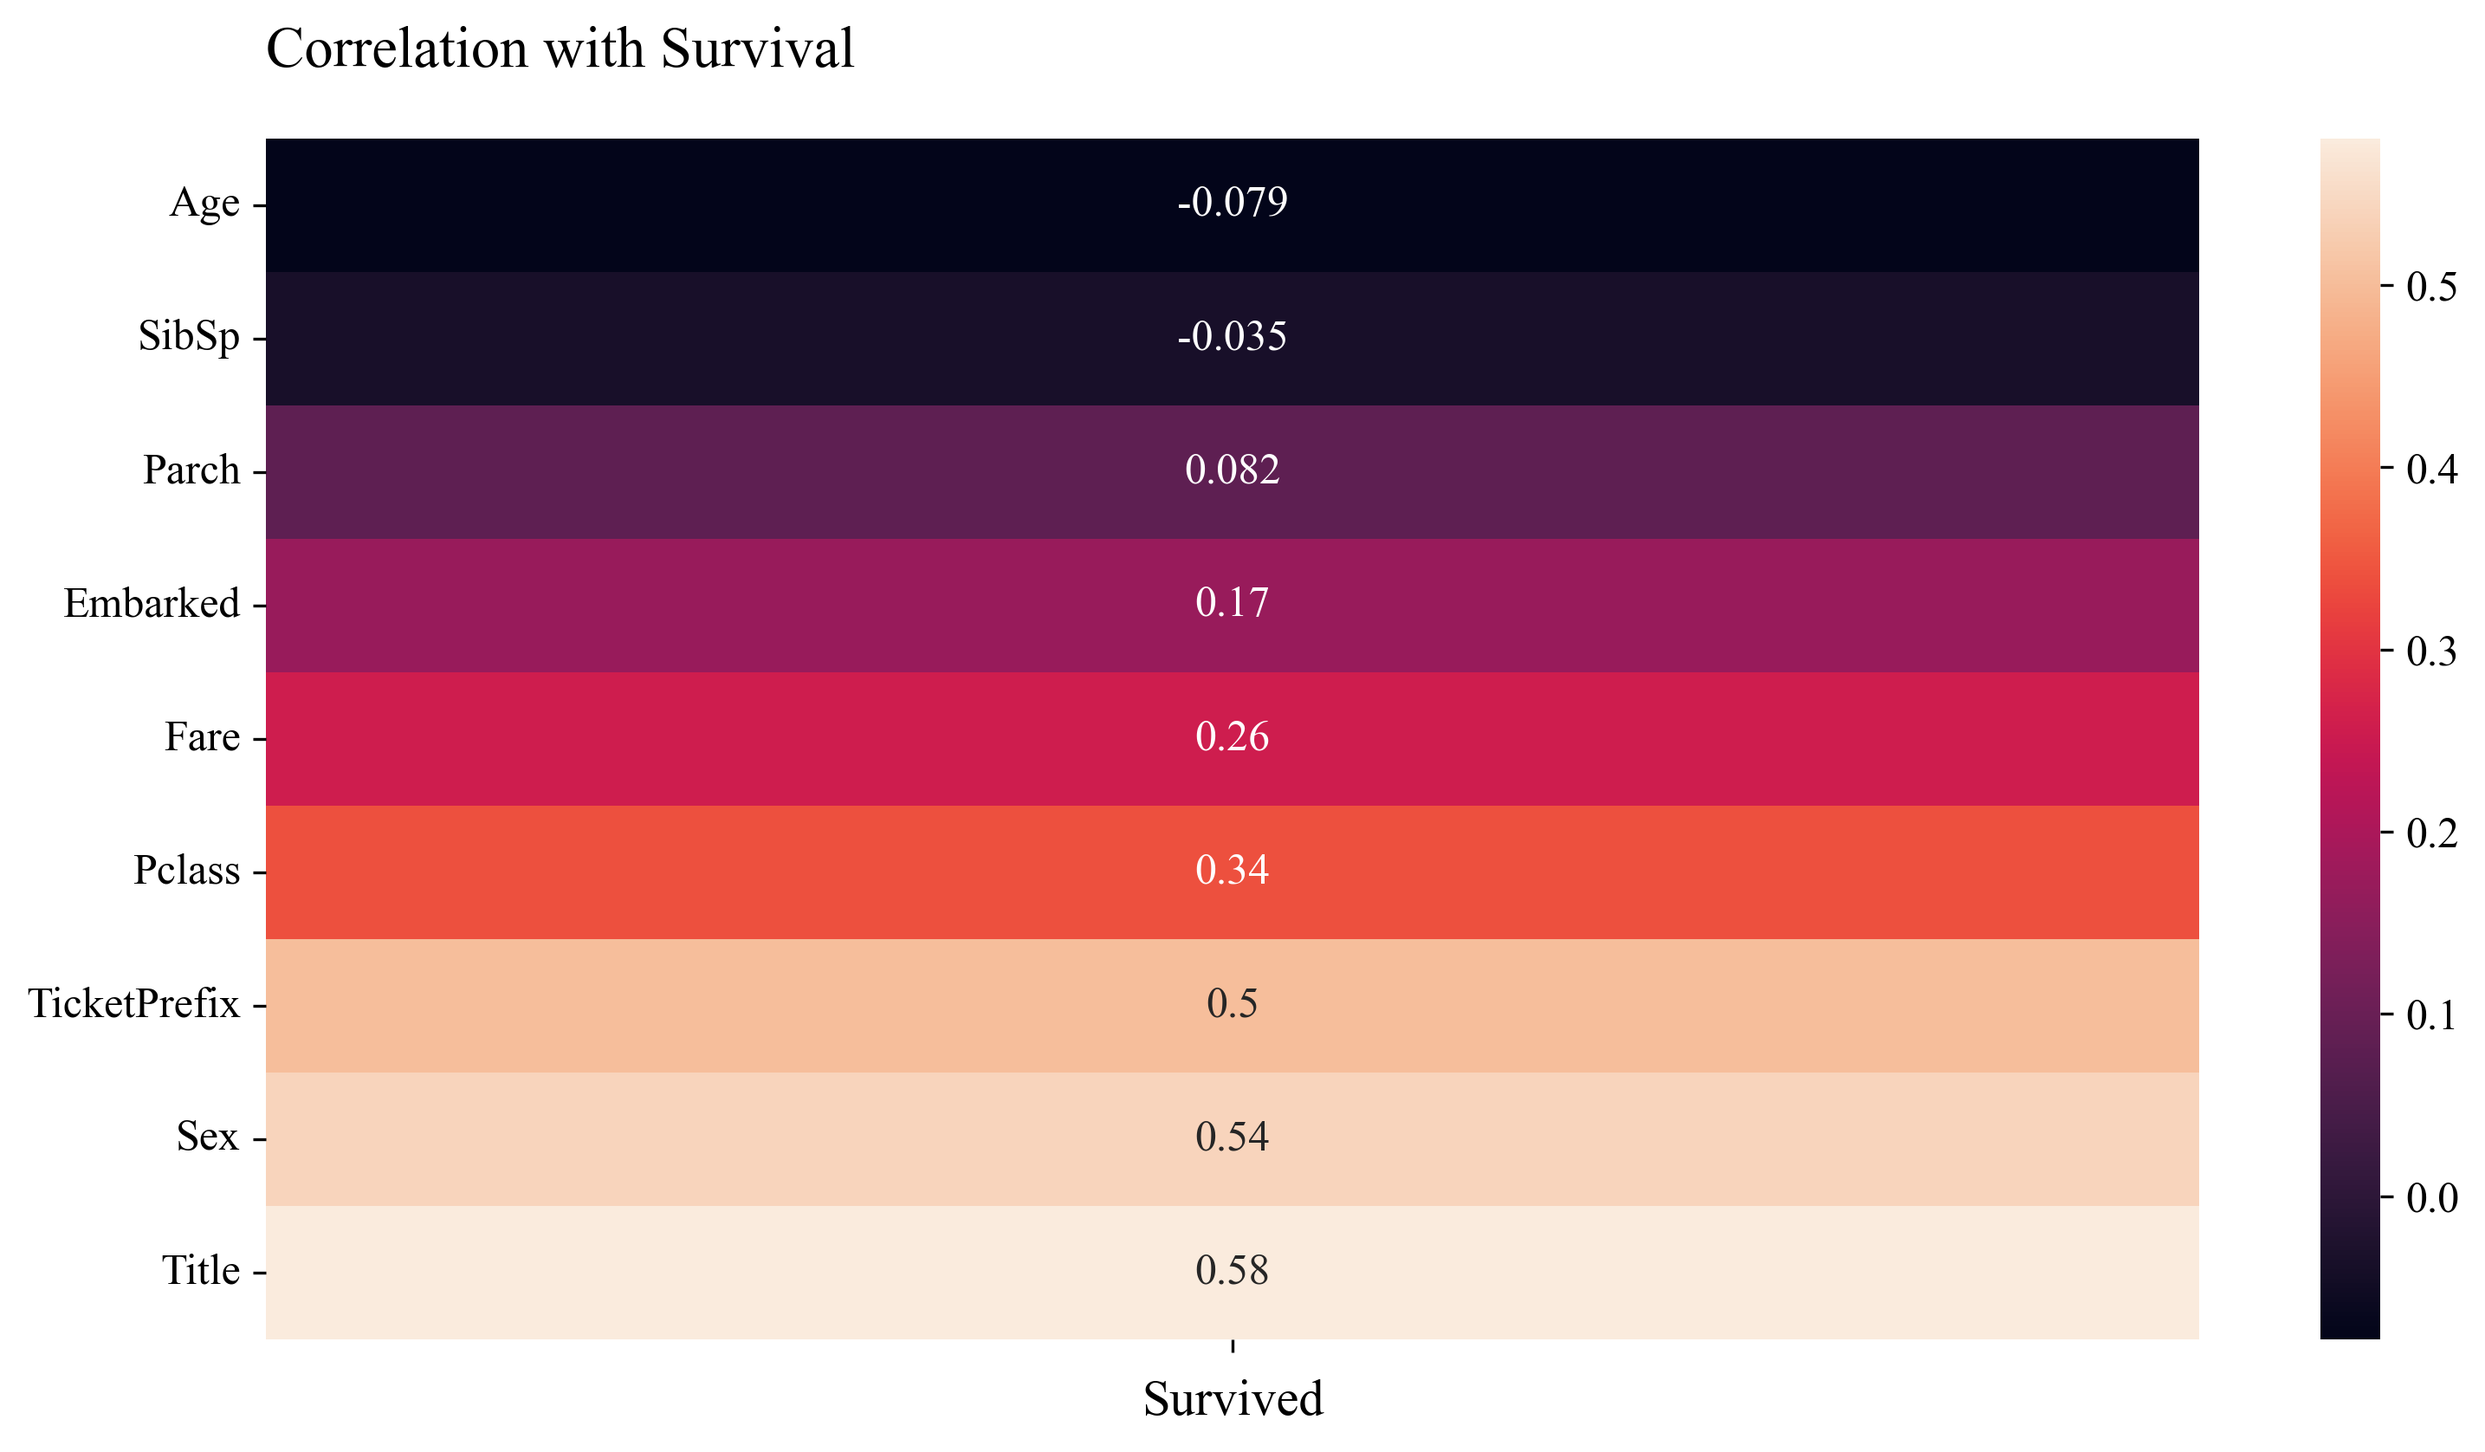
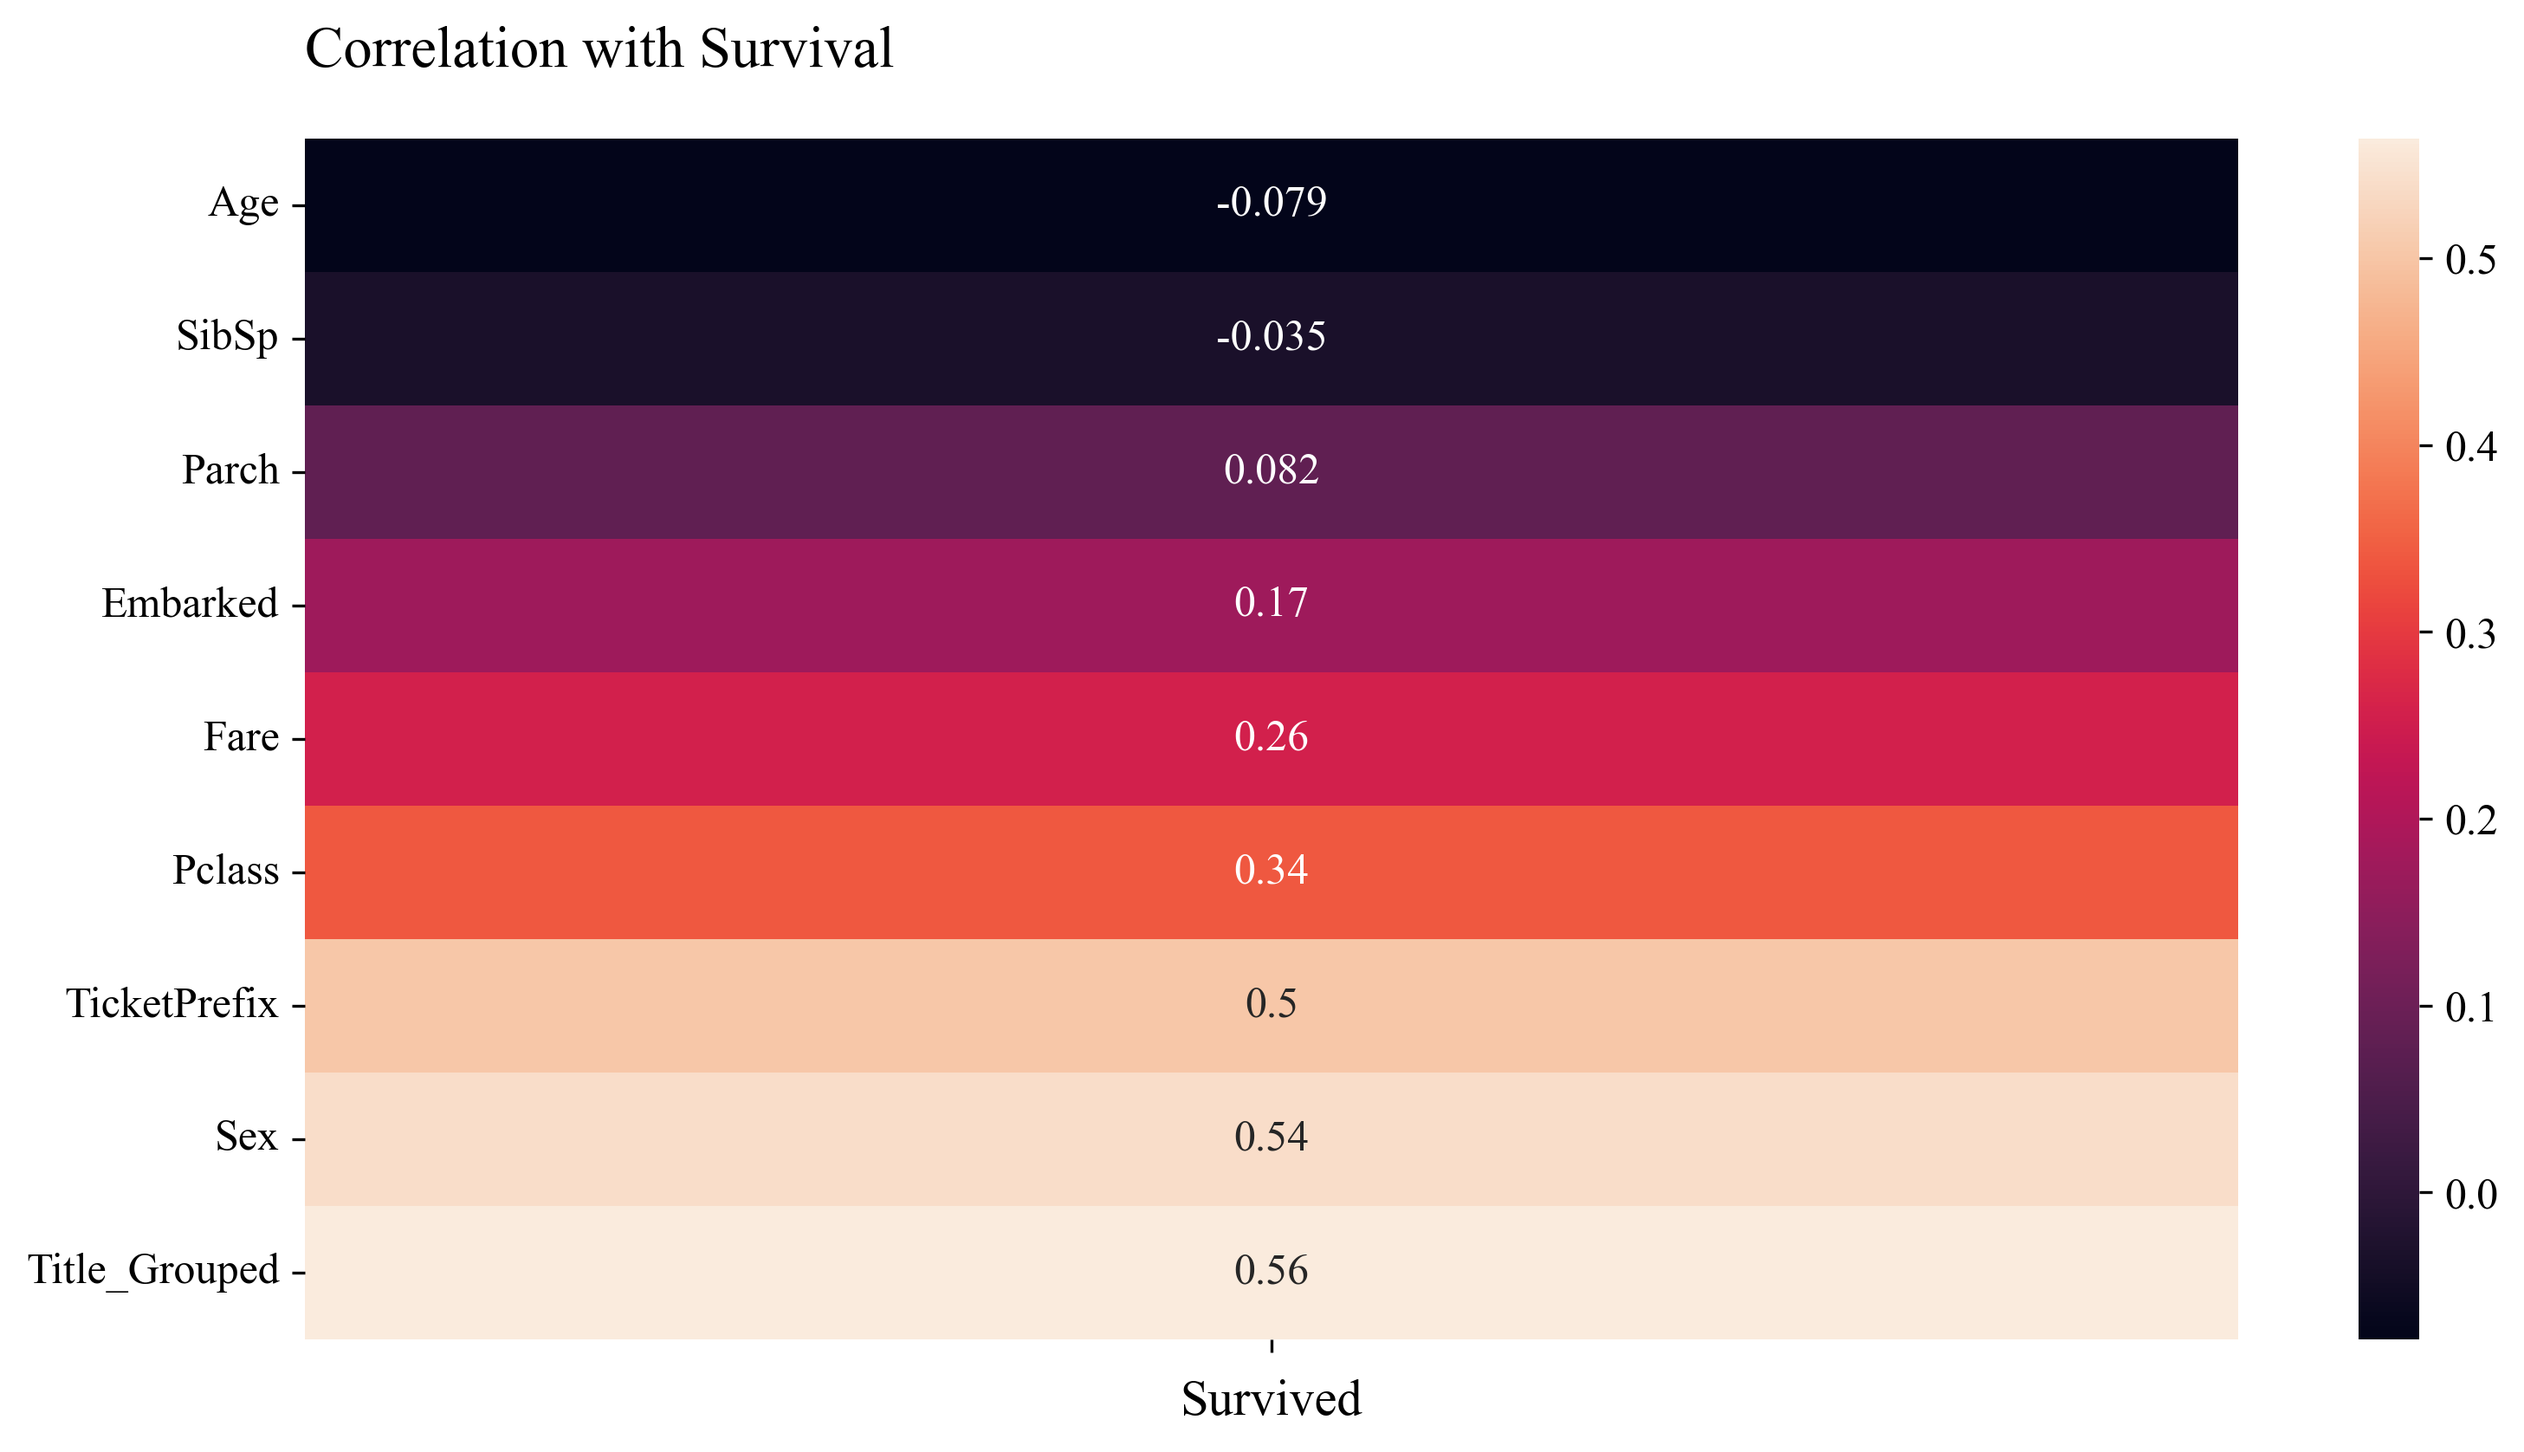
ticket finished

diff --git a/_posts/2024-02-25-titanic-project-machine-learning-from-disaster.md b/_posts/2024-02-25-titanic-project-machine-learning-from-disaster.md
@@ -23,6 +23,7 @@ sidebar: []
   - [第二次尝试（`Age` 特征标准化/归一化）](#第二次尝试age-特征标准化归一化)
   - [第三次尝试（考虑 `SibSp` 和 `Parch` 特征)](#第三次尝试考虑-sibsp-和-parch-特征)
   - [第四次尝试（考虑 `Ticket` 特征）](#第四次尝试考虑-ticket-特征)
+  - [第五次尝试（考虑 `Fare` 特征）](#第五次尝试考虑-fare-特征)
 
 <hr>
 
@@ -2216,9 +2217,66 @@ Cross-validated Accuracy (5-fold): 0.849365
 
 ![](/assets/images/ml/titanic_feature_correlations.png)
 
+由于我们本意是结合生存率来对 `TicketPrefix` 分类。因此，按照上图所示中的相关性，可能选择 `Title_Grouped` 来对 `TicketPrefix` 更为合适（`Title` 与生存率之间存在最大的正相关）。具体来说，我们可以选择查看每个 `Title_Grouped` 类别下，`TicketPrefix` 的出现频率，然后根据这个频率来分类，示例代码如下：
 
+```python
+# 其他代码保持不变
+class TicketProcessor(BaseProcessor):
+    # 其他代码保持不变
+
+    def categorize_ticket_prefix_using_title(self):
+        # 确保Title已经在数据中
+        if "Title_Grouped" not in self.data.columns:
+            self.data = AgeProcessor(self.data).fill_age_by_title_group().data
+
+        # 初始化列
+        self.data["TicketPrefixCategorized"] = "Others"
+
+        # 对每个Title_Grouped类别，找出TicketPrefix的频率，并进行分类
+        for title_group in self.data["Title_Grouped"].unique():
+            # 计算当前Title_Grouped下每个TicketPrefix的频率
+            prefix_freq = self.data[self.data["Title_Grouped"] == title_group][
+                "TicketPrefix"
+            ].value_counts(normalize=True)
+
+            # 设置阈值，前缀频率大于等于10%才分类为特定前缀，否则为'Others'
+            threshold = 0.1
+            significant_prefixes = prefix_freq[prefix_freq >= threshold].index.tolist()
+
+            # 对当前Title_Grouped下的每个TicketPrefix进行分类
+            for prefix in significant_prefixes:
+                self.data.loc[
+                    (self.data["Title_Grouped"] == title_group)
+                    & (self.data["TicketPrefix"] == prefix),
+                    "TicketPrefixCategorized",
+                ] = prefix
+
+        return self
+# 其他代码保持不变
+```
+
+重新运行 `main.py`，评估结果如下：
+
+```plaintext
+Evaluation Metrics:
+        Accuracy  Precision    Recall  F1 Score   ROC AUC
+Values  0.810056   0.785714  0.743243  0.763889  0.888546
+
+Confusion Matrix:
+                 Predicted Negative  Predicted Positive
+Actual Negative                  90                  15
+Actual Positive                  19                  55
+
+Cross-validated Accuracy (5-fold): 0.843810
+```
+
+与按照 `TicketPrefix` 的频率和其累计频率分类的评估结果对比，这种复杂的分类方法并没有产生太多正面的影响。除了在 ROC AUC 有了些许上升外，其他指标要不持平，要不下降。因此，<strong style="color:#c21d03">可以得出，该种分类方法对于本项目的逻辑回归模型训练可能并不合适。</strong>
+
+同学们可以测试下余下的其他分类策略是否能对逻辑回归模型训练效果有所影响。对于  `Ticket` 特征的处理暂告一段落。 
 
 [^1]: 使用点双列相关通常需要满足一些前提假设，例如**正态分布假设**，**线性关系**，**样本容量**等。但在实际应用中，这些假设可以有一定的灵活性。比如关于**正态分布假设**，确实，理想情况下，连续变量应接近正态分布。但在实践中，特别是对于大样本数据，中心极限定理保证了即使数据不完全正态，相关性测试结果也是可靠的。在 Titanic 数据集中，连续变量（如年龄、票价）可能不完全符合正态分布，但仍可计算点双列相关系数以得到大致的相关趋势。对于**线性关系假设**，点双列相关系数度量的是变量之间的线性关系。即使实际关系不是完全线性的，该系数也可以提供一个关系强度的估计。对于 Titanic 数据集，你可以先通过可视化（如散点图）初步探索生存率与数值变量之间的关系，判断是否存在大致的线性趋势。因此，尽管 Titanic 数据集中的数值型特征可能不完全符合点双列相关系数的所有理论假设，该方法仍然是探索生存特征与其他数值型特征相关性的有用工具。
 
-<hr style="border-top: dashed #E7D1BB; border-bottom: none; background-color: transparent"/>
+<hr/>
+
+### 第五次尝试（考虑 `Fare` 特征）
 
